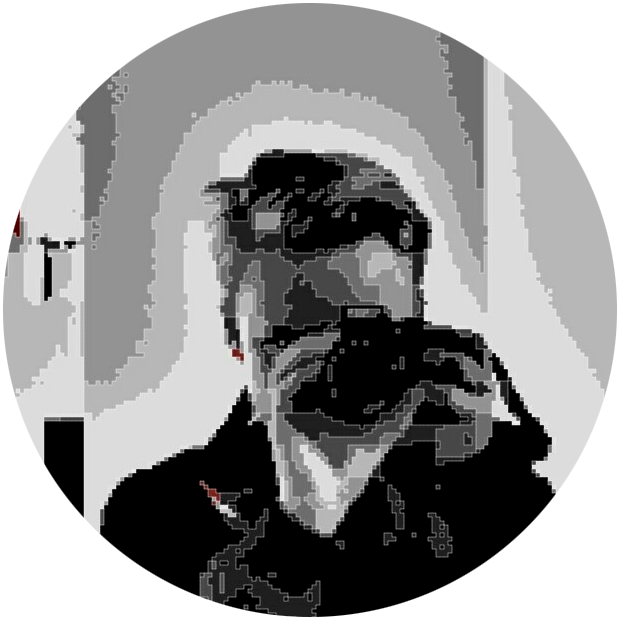
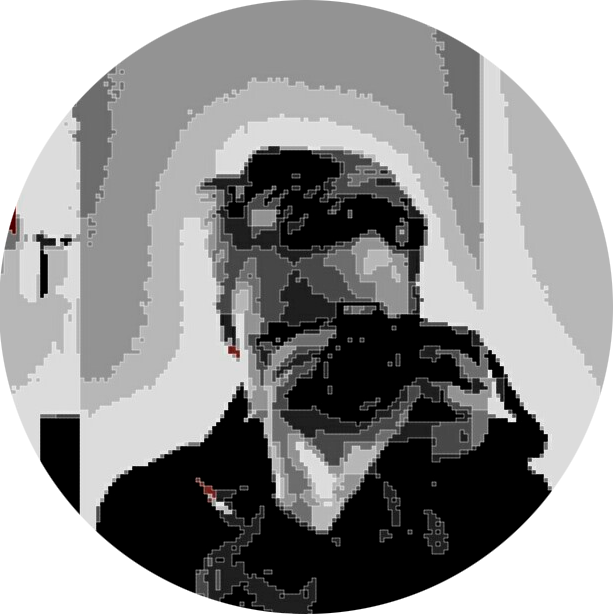
Added white background to profile pics

diff --git a/about/about.html b/about/about.html
@@ -10,7 +10,24 @@
 </head>
 <header>
     <div class="hero">
-        <img class="profilePic" src="../Media/santeri.png" alt="Santeri"><img class="profilePic" src="../Media/santeri.png" alt="Santeri"><img class="profilePic" src="../Media/santeri.png" alt="Santeri">
+        <ul>
+            <li>
+                <div class="profileBackground">
+                    <img class="profilePic" src="../Media/santeri.png" alt="Santeri">
+                </div>
+            </li>
+            <li>
+                <div class="profileBackground">
+                    <img class="profilePic" src="../Media/santeri.png" alt="Santeri">
+                </div>
+            </li>
+            <li>
+                <div class="profileBackground">
+                    <img class="profilePic" src="../Media/santeri.png" alt="Santeri">
+                </div>
+            </li>
+        </ul>
+
         <h1>About us</h1>
     </div>
     <div></div>

diff --git a/about/style.css b/about/style.css
@@ -12,7 +12,9 @@ text-align: center;
     border: 10px solid white;
     border-radius: 50%;
     padding: -20px;
-    margin: 20px;
+    margin: -20px;
+    margin-top: 40px;
+    margin-bottom: 40px;
 }
 .hero{
     background-image: url("../Media/old-board.jpg");    
@@ -23,4 +25,8 @@ text-align: center;
     height: 500px; 
     padding: 0px;
     margin: 0px;
+}
+li{
+    display: inline-block;   
+    padding: -20px;
 }
